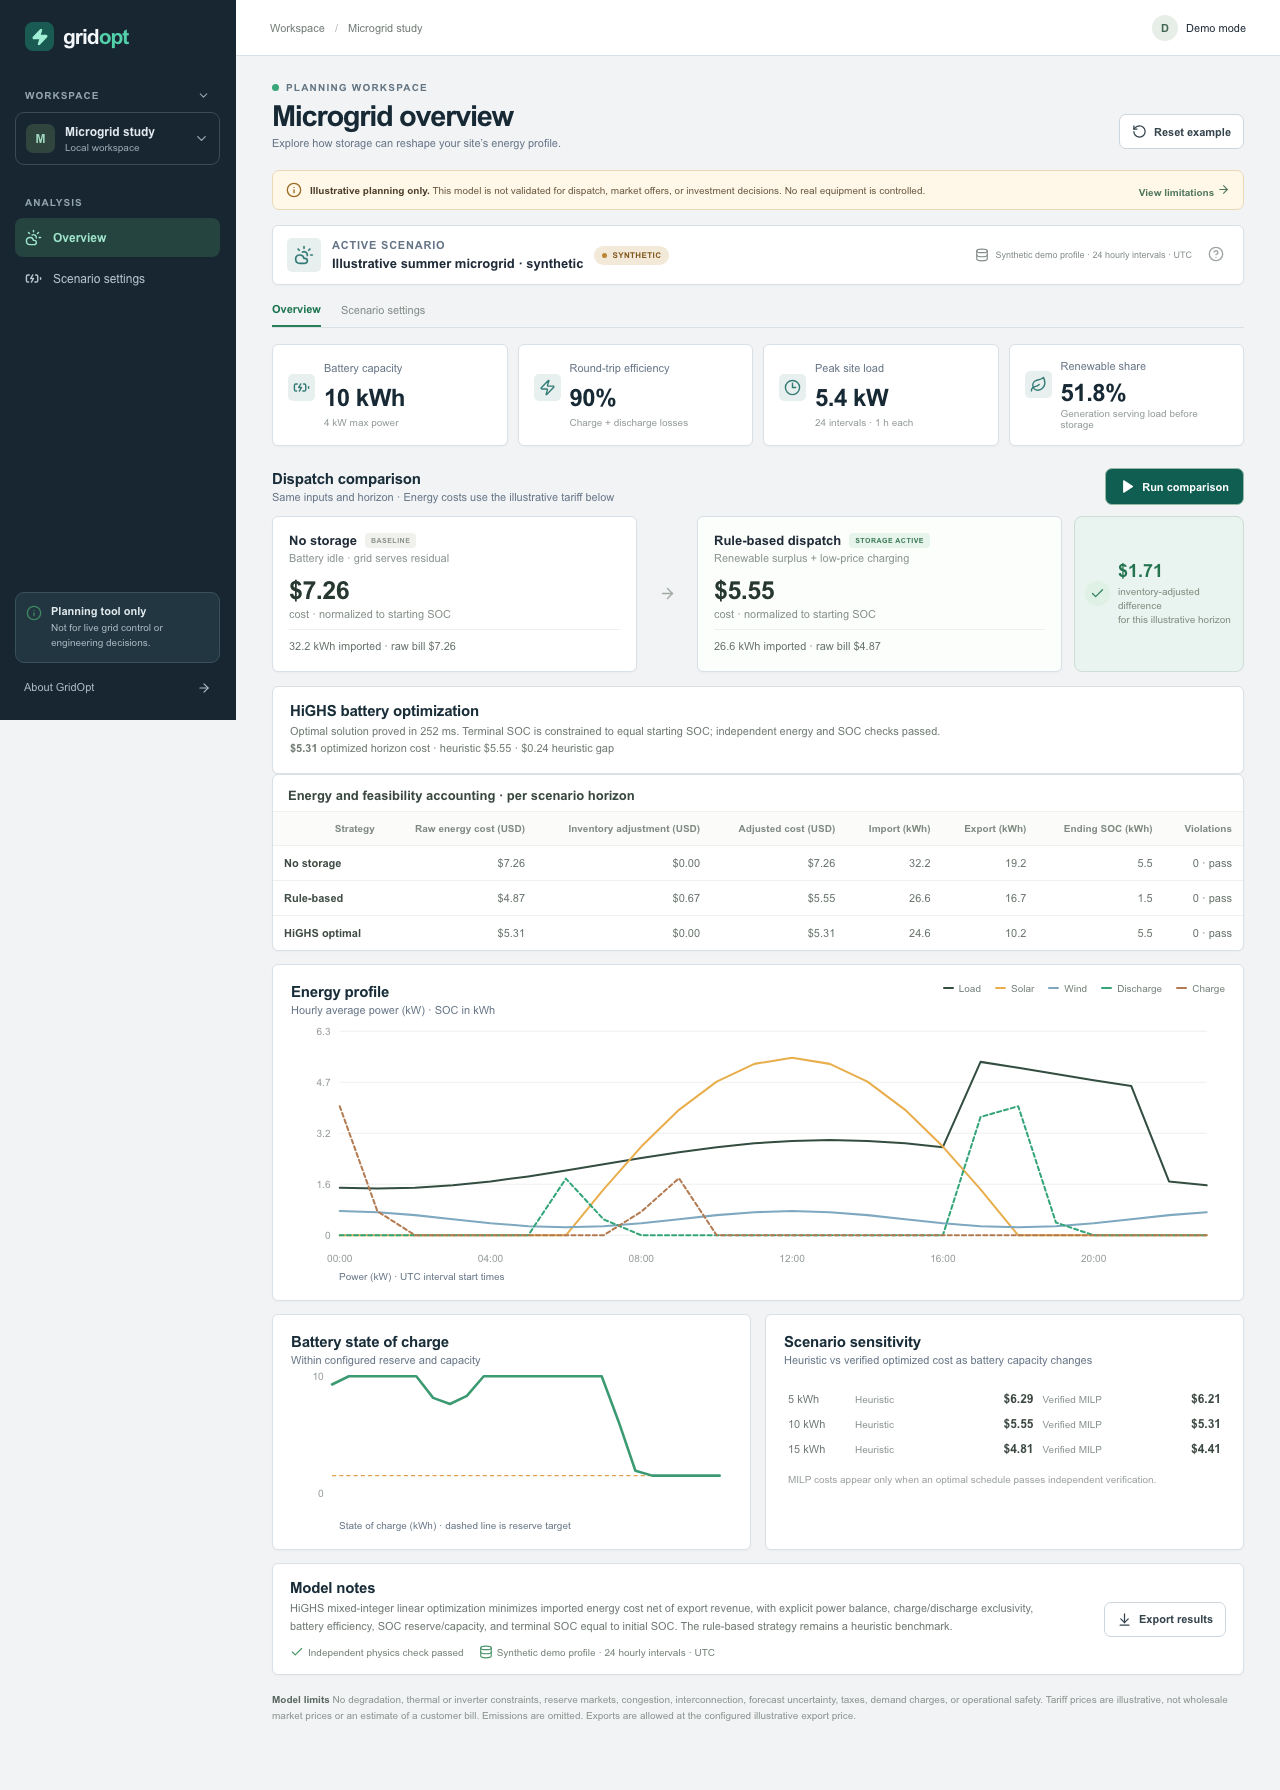
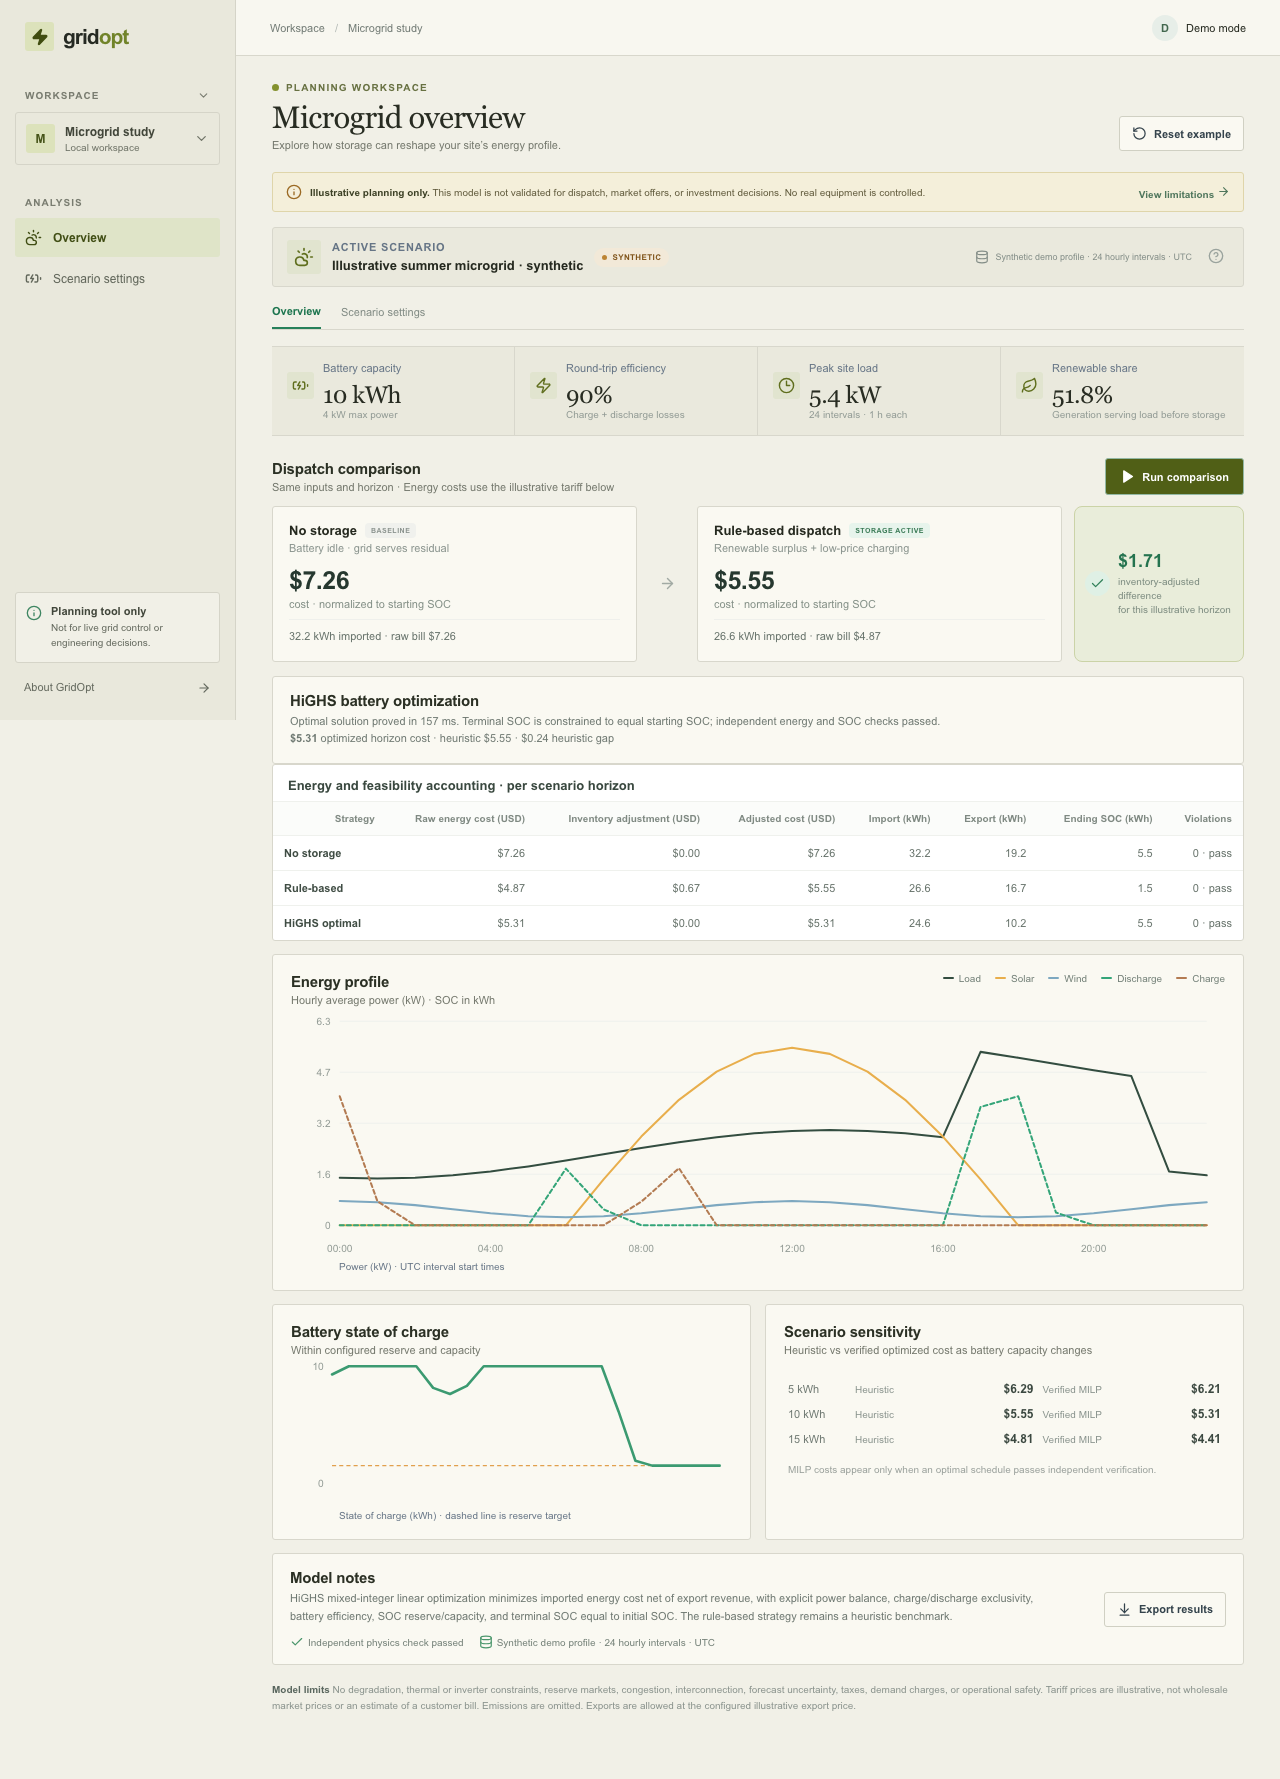
Refine GridOpt engineering interface

diff --git a/src/style.css b/src/style.css
@@ -24,3 +24,31 @@ body{background:#f1f3f5;color:#202b38;font-size:14px}
 .settings-card{padding:20px}.settings-title h2{font-size:16px}.settings-title p,.source-current p{font-size:11px}.field{font-size:12px}.field small{font-size:10px}.field input,.field select{border-color:#cbd6dc;border-radius:5px;font-size:13px;padding:10px}.upload-box{border-color:#b9c9c8;border-radius:5px}.upload-box b{font-size:12px}.upload-box small,.privacy-note{font-size:10px}.accounting{font-size:11px}.accounting caption{font-size:13px}.accounting thead th{font-size:10px}.accounting th,.accounting td{padding:11px}.toast{font-size:12px}
 .btn:focus-visible,.nav-item:focus-visible,.field input:focus-visible,.field select:focus-visible{outline:3px solid #278f83;outline-offset:2px}
 @media(max-width:760px){.content{padding:20px 12px 30px}.topbar{padding:0 12px}.page-heading h1{font-size:23px}.metric{min-height:92px}.metric strong{font-size:21px}.scenario-source{font-size:10px}.strategy{padding:11px 9px}.strategy h3{font-size:11px}.strategy-value{font-size:18px}.strategy>p,.strategy-detail{font-size:10px}.chart-panel{padding:13px 10px}.legend{font-size:9px;gap:8px}.axis-label{font-size:9px}.small-panel{min-height:200px}.sidebar{background:#182631}.accounting-wrap{border-radius:5px}}
+
+/* Grid engineering direction: chalk canvas, measured rules, signal-lime emphasis. */
+:root{color:#25291f;background:#f1f0e7;--muted:#74786d;--line:#d8d7cc;--green:#65751e;--deep:#262a23;--mint:#e8ead9;--paper:#faf9f2}
+body,.main{background:#f1f0e7;color:#25291f}
+.sidebar{background:#e9e8dc;border-color:#d5d4c8;color:#25291f}
+.brand{color:#262a23}.brand>span:last-child span{color:#718329}
+.brand-mark{background:#dce2bb;color:#404d10;border-radius:3px}
+.workspace-label,.nav-label{color:#797c70}
+.workspace{border-color:#d5d4c8;border-radius:3px}.workspace-icon{background:#dce2bb;color:#465419;border-radius:3px}
+.workspace{color:#42463a}.workspace small,.workspace>svg{color:#707468}
+.nav-item{color:#62675b;border-radius:3px}.nav-item.selected{background:#dfe4c8;color:#414e15}
+.safe-note{background:#f1f0e7;border-color:#d5d4c8;border-radius:3px;color:#41463b}.safe-note small,.side-link{color:#64695e}
+.topbar{background:#f8f7f0;border-color:#d8d7cc}
+.content{max-width:1440px}.page-heading h1{color:#282c22;font-family:Georgia,"Times New Roman",serif;font-size:31px;font-weight:500;letter-spacing:-.025em}
+.eyebrow{color:#687142}.live-dot{background:#84912e}
+.btn{border-color:#d0d0c3;border-radius:3px;background:#faf9f2}.btn-primary{background:#65751e;border-color:#65751e}.btn-primary:hover{background:#505f16}
+.notice{background:#f4efda;border-color:#dfd5aa;border-radius:3px;color:#615b3d}.notice b{color:#3c4025}
+.scenario-bar,.metric,.strategy,.chart-panel,.settings-card,.detail-panel,.accounting-wrap{border-color:#d8d7cc;border-radius:3px;box-shadow:none}
+.scenario-bar{background:#eae9dd}.scenario-icon,.metric-icon{background:#e1e4cf;color:#5f6e1d;border-radius:3px}
+.metric-grid{gap:0;border-block:1px solid #d8d7cc;background:#eae9dd}
+.metric{background:transparent;border:0;border-right:1px solid #d8d7cc;border-radius:0;min-height:88px}
+.metric:last-child{border-right:0}.metric strong{color:#282c22;font-family:Georgia,"Times New Roman",serif;font-weight:500}
+.section-head h2,.panel-heading h2,.detail-panel h2,.settings-title h2{color:#2b3024}
+.strategy{background:#faf9f2}.chart-panel,.detail-panel,.settings-card{background:#faf9f2}
+.savings{background:#e9edda;border-color:#cbd3a7}.field input,.field select{background:#fffef8;border-color:#cdccbf;border-radius:3px}
+.btn:focus-visible,.nav-item:focus-visible,.field input:focus-visible,.field select:focus-visible{outline-color:#7b862a}
+@media(max-width:760px){.sidebar{background:#e9e8dc}.metric-grid{grid-template-columns:repeat(2,minmax(0,1fr))}.metric:nth-child(2){border-right:0}.metric:nth-child(-n+2){border-bottom:1px solid #d8d7cc}}
+@media(max-width:760px){.sidebar{position:static;inset:auto;width:100%;height:auto;min-height:0;flex-direction:row;align-items:center;gap:8px;padding:8px 10px;border-right:0;border-bottom:1px solid #d5d4c8;overflow-x:auto}.brand{flex:none;padding:0 2px}.brand>span:last-child{display:none}.workspace-label,.workspace,.nav-label,.sidebar-bottom{display:none}.sidebar nav{display:flex;flex:none;gap:4px;margin-left:auto}.nav-item,.nav-item:not(.selected),.nav-item.selected{font-size:11px;white-space:nowrap;justify-content:flex-start;padding:8px;color:#62675b}.nav-item.selected{background:#dfe4c8;color:#414e15}.nav-item svg{width:16px;height:16px}.main{margin-left:0}}
